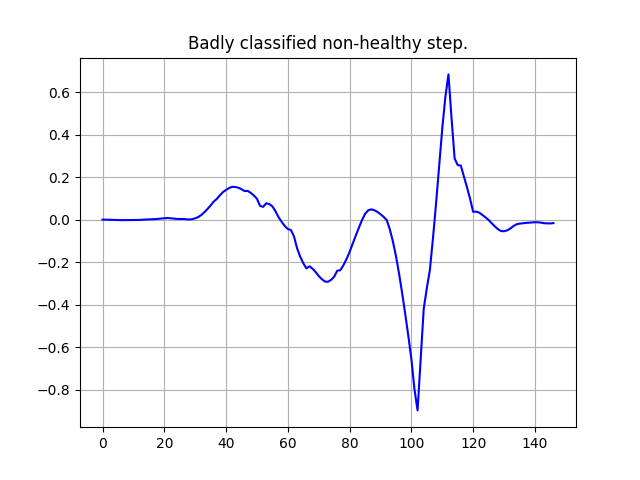
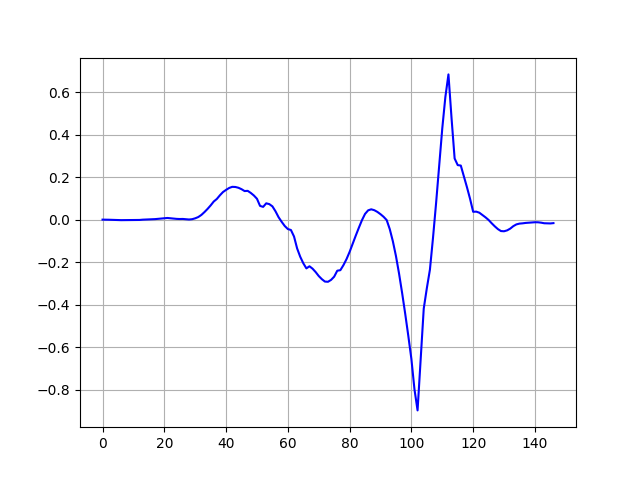
question 10-11 cleaned

Changed region(s): [[0.2812, 0.0625, 0.7188, 0.125]]

diff --git a/main.tex b/main.tex
@@ -534,7 +534,11 @@ Combine the DTW and a k-neighbors classifier to classify each step. Find the opt
 \end{exercise}
 
 \begin{solution}
+We can see that the optimal number of neighbors is 5 with a validation f1 score of 0.77. However the associated f1-score with the test dataset is 0.46.
 
+Our model is not generalizing really well on unseen data.
+
+Maybe we could try to combine more data from the accelerometer in order to have a better result.
 \end{solution}
 
 \newpage
@@ -546,12 +550,12 @@ Display on Figure~\ref{fig:class-errors} a badly classified step from each class
 \begin{figure}
     \centering
     \begin{minipage}[t]{\textwidth}
-    \centerline{\includegraphics[width=0.6\textwidth]{example-image-golden}}
+    \centerline{\includegraphics[width=0.6\textwidth]{images/healty.png}}
     \centerline{Badly classified healthy step}
     \end{minipage}
     \vskip1em
     \begin{minipage}[t]{\textwidth}
-    \centerline{\includegraphics[width=0.6\textwidth]{example-image-golden}}
+    \centerline{\includegraphics[width=0.6\textwidth]{images/unhealty.png}}
     \centerline{Badly classified non-healthy step}
     \end{minipage}
     \vskip1em
